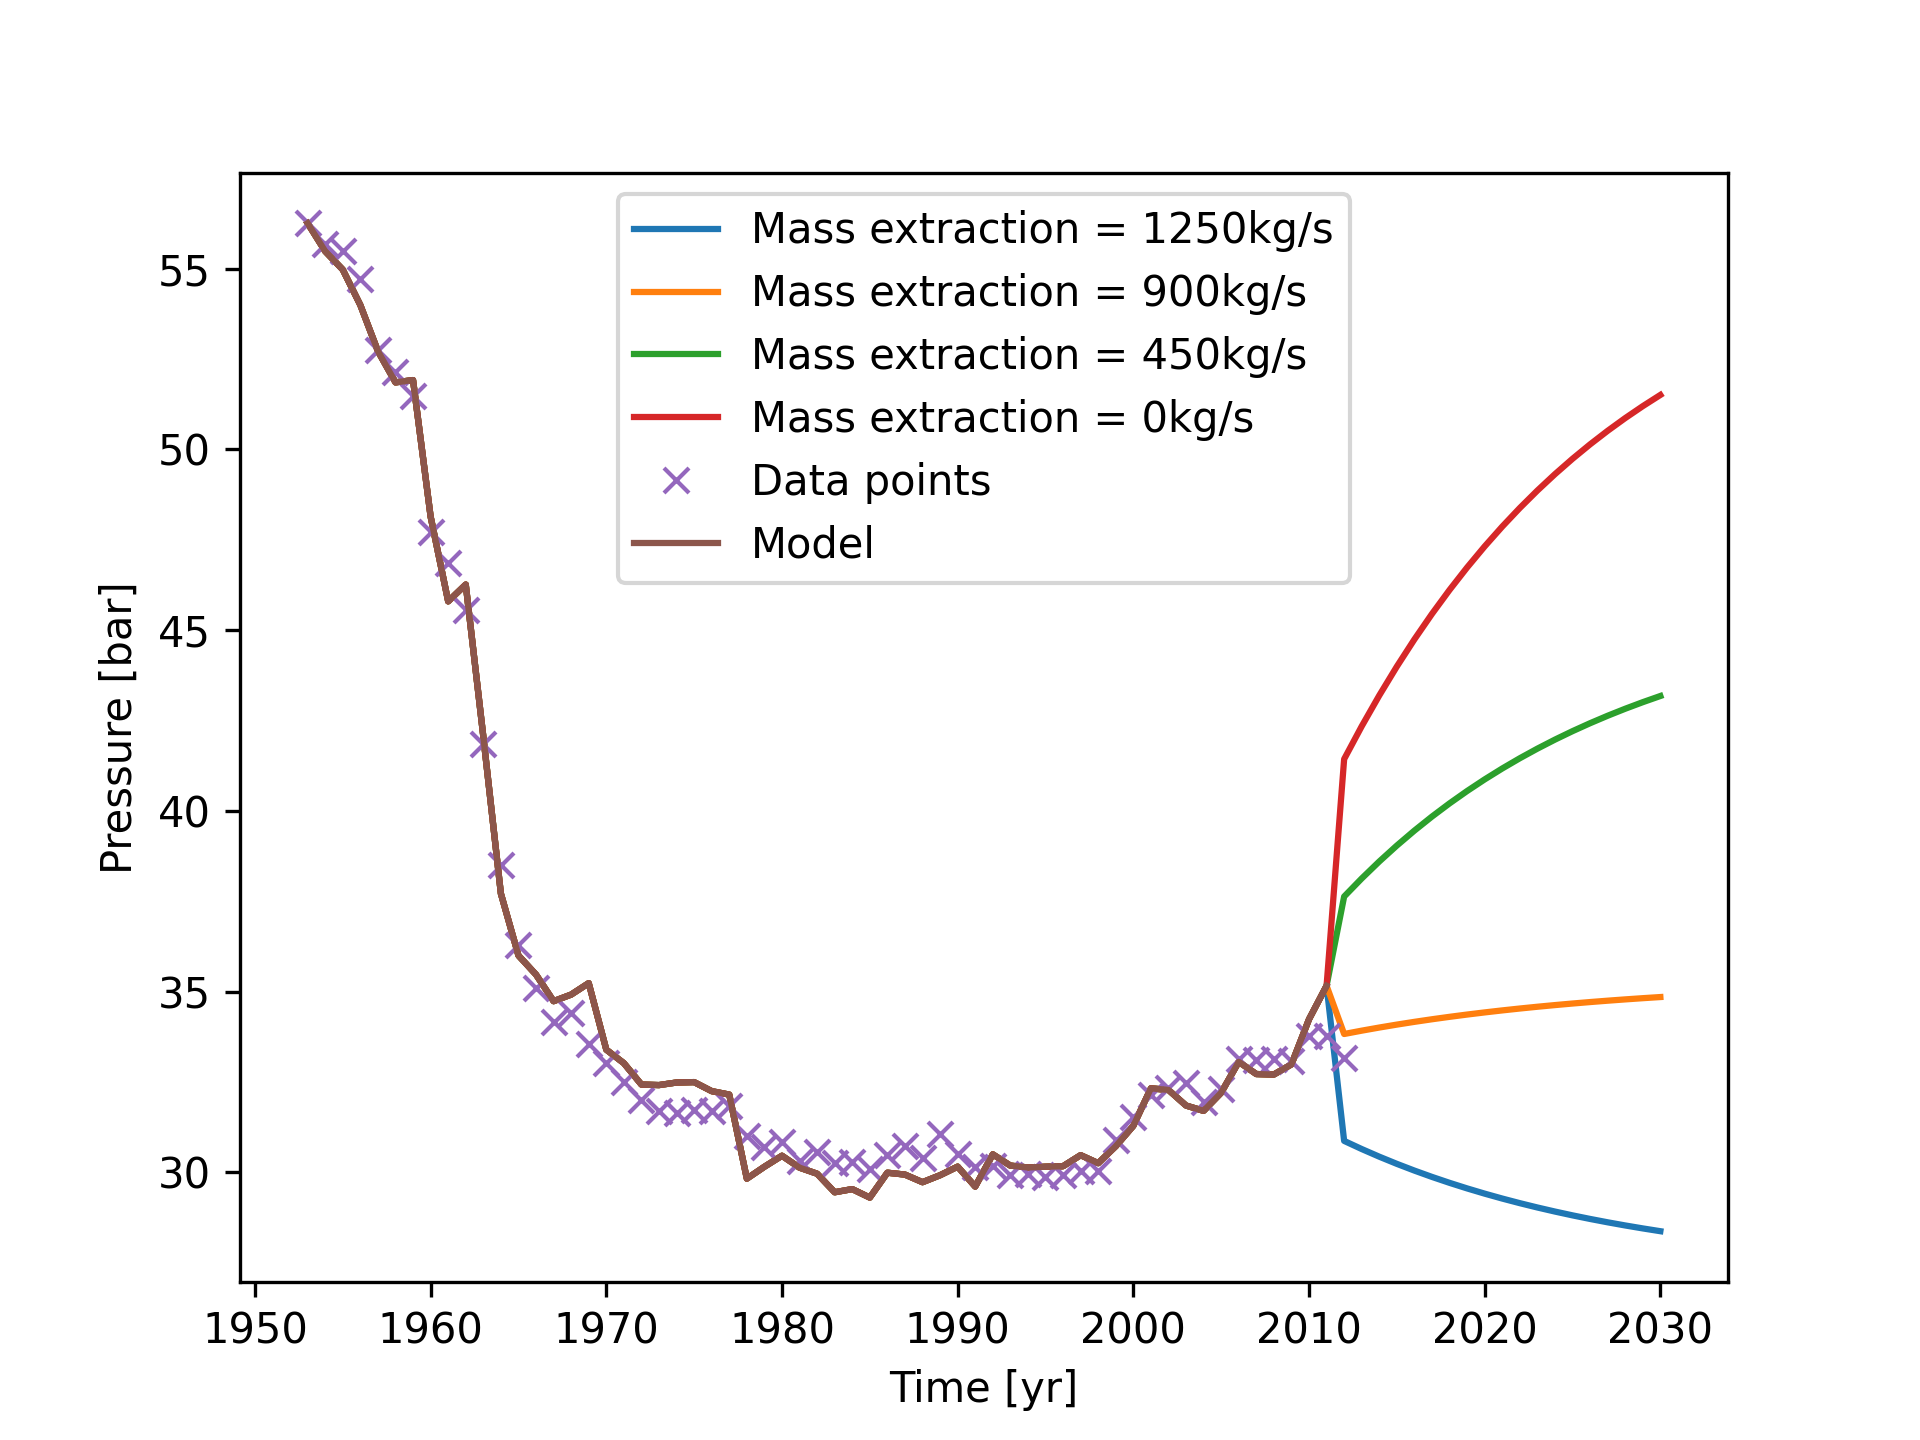
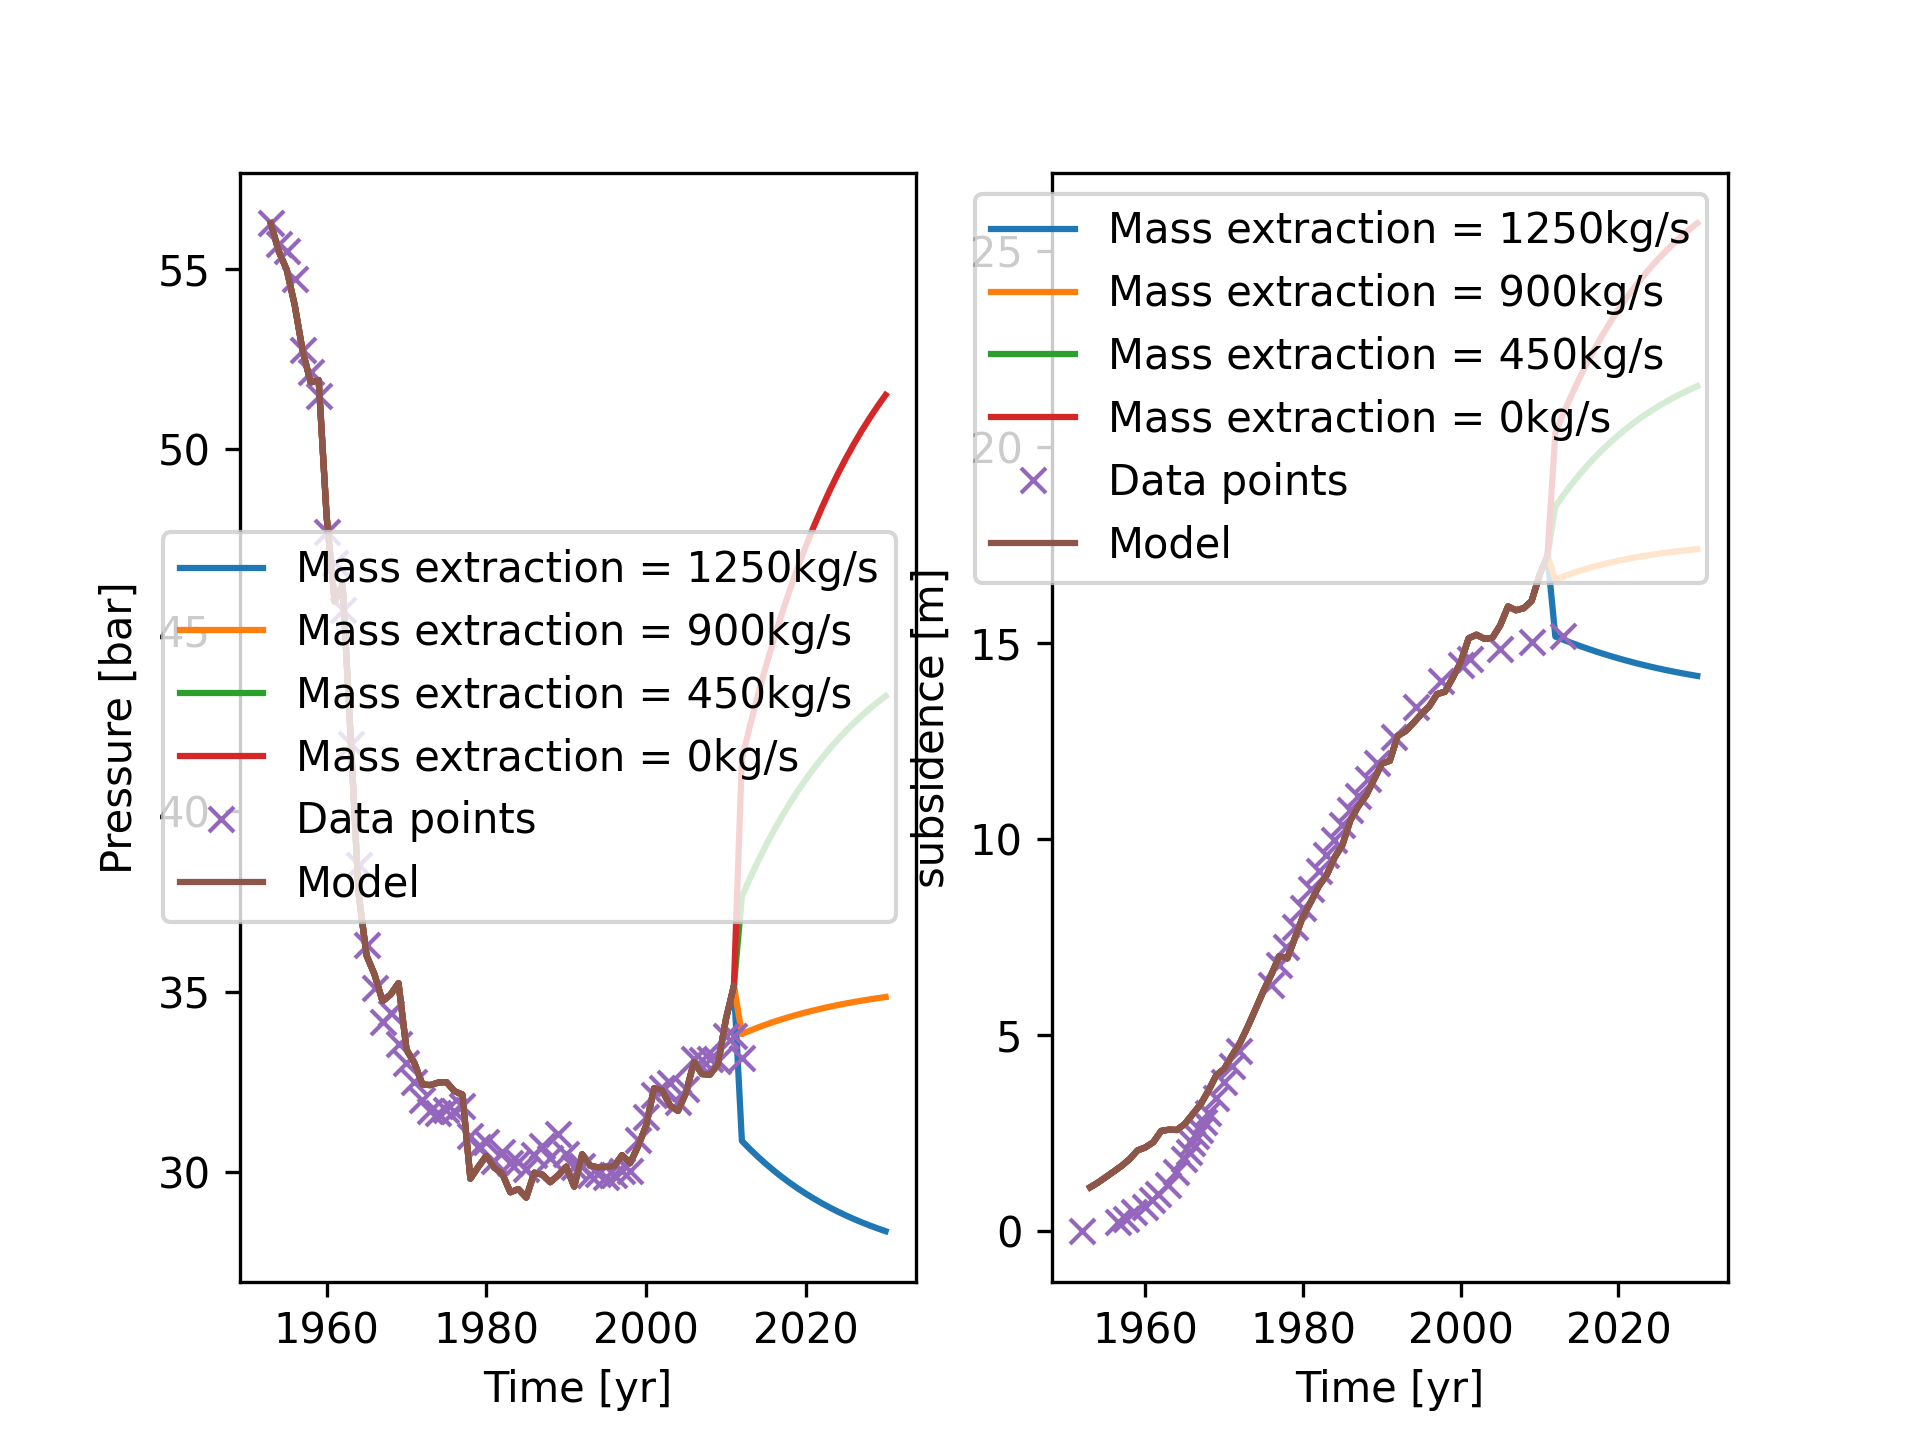
Add prediction for the subsidence model

diff --git a/modelG15.py b/modelG15.py
@@ -146,6 +146,23 @@ def load_pressure_data():
 
     return Time, Pressure
 
+def load_subsidence_data():
+    ''' Returns time and temperature measurements from kettle experiment.
+        Parameters:
+        -----------
+        none
+        Returns:
+        --------
+        t : array-like
+            Vector of times (seconds) at which measurements were taken.
+        T : array-like
+            Vector of mass extraction measurements.
+    '''
+    # File I/O commands to read in the data
+    Time, Subsidence = np.genfromtxt('sb_disp.txt', delimiter=',', skip_header=1).T
+
+    return Time, Subsidence
+
 
 def interpolate_mass_extraction(t):
     ''' Return heat source parameter q for kettle experiment.
@@ -244,8 +261,10 @@ def forward_prediction(qf):
     pars = [a, b, c]
     p0 = 56.26
     dt = 1
+    d = 0.5
 
     tp, p = load_pressure_data()
+    ts, s = load_subsidence_data()
     t0 = tp[0]
     
     t_current = np.arange(t0,tp[-1],dt)
@@ -255,6 +274,7 @@ def forward_prediction(qf):
     q0 = interpolate_mass_extraction(t_current)
 
     pressure = []
+    subsidence = []
 
     for i in range(len(qf)):
         q1 = qf[i]*np.ones(len(t_future))
@@ -264,24 +284,37 @@ def forward_prediction(qf):
             dqdt[j] = (q[j+1] - q[j])/dt
         
         t, pres = solve_pressure_ode(pressure_ode, t0, 2029.5, dt, p0, q, dqdt, pars)
+        subs = pres.copy()
+        for j in range(len(t)):
+            subs[j] = subsidence_model(t[j], pres[j], d)
 
         pressure.append(pres)
+        subsidence.append(subs)
     
+    f, (ax1,ax2) = plt.subplots(1,2)
+
     # plot forward prediction
     for i in range(len(qf)):
-        plt.plot(t,pressure[i],label=f"Mass extraction = {qf[i]}kg/s")
+        ax1.plot(t,pressure[i],label=f"Mass extraction = {qf[i]}kg/s")
+        ax2.plot(t,subsidence[i],label=f"Mass extraction = {qf[i]}kg/s")
 
     # plot data point
-    plt.plot(tp, p, 'x', label="Data points")
+    ax1.plot(tp, p, 'x', label="Data points")
+    ax2.plot(ts, s, 'x', label="Data points")
 
     # plot model
-    plt.plot(t_current,pressure[0][:len(t_current)], label="Model")
+    ax1.plot(t_current,pressure[0][:len(t_current)], label="Model")
+    ax2.plot(t_current,subsidence[0][:len(t_current)], label="Model")
 
-    plt.xlabel('Time [yr]')
-    plt.ylabel('Pressure [bar]')
-    plt.legend()
+    ax1.set_xlabel('Time [yr]')
+    ax1.set_ylabel('Pressure [bar]')
+    ax1.legend()
 
-    save_figure = 1
+    ax2.set_xlabel('Time [yr]')
+    ax2.set_ylabel('subsidence [m]')
+    ax2.legend()
+
+    save_figure = 0
     if not save_figure:
         plt.show()
     else:
@@ -314,7 +347,7 @@ def plot_subsidence_model(a,b,c):
         s[i] = subsidence_model(t[i], p[i], d)
     plt.plot(t, s, "-", color="blue", label="improved solution")
 
-    Time, Disp = np.genfromtxt('sb_disp.txt', delimiter=',', skip_header=1).T
+    Time, Disp = load_subsidence_data()
     plt.plot(Time, Disp, "x", color="red", label="observations")
 
     plt.xlabel('Time [yr]')
@@ -325,6 +358,6 @@ def plot_subsidence_model(a,b,c):
     plt.show()
 
 if __name__ == "__main__":
-    a, b, c = plot_pressure_model()
-    plot_subsidence_model(a, b, c)
-    #forward_prediction([1250,900,450,0])
+    #a, b, c = plot_pressure_model()
+    #plot_subsidence_model(a, b, c)
+    forward_prediction([1250,900,450,0])
